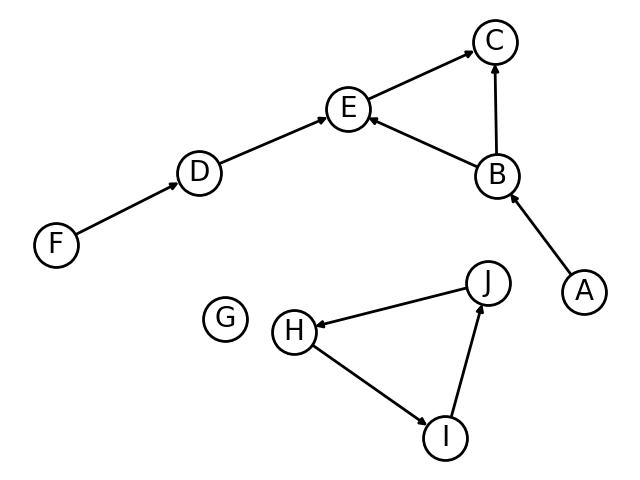
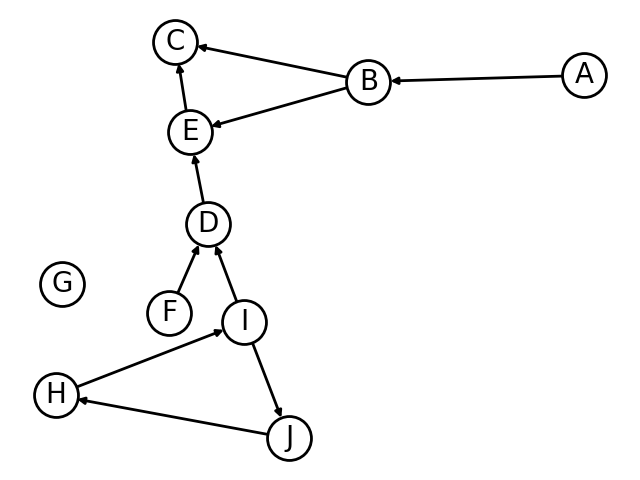
update test case

diff --git a/sparsesort/SparseSort.java b/sparsesort/SparseSort.java
@@ -63,7 +63,7 @@ class SparseSort {
         children.put("F", Arrays.asList("D"));
         children.put("G", Arrays.asList());
         children.put("H", Arrays.asList("I"));
-        children.put("I", Arrays.asList("J"));
+        children.put("I", Arrays.asList("J", "D"));
         children.put("J", Arrays.asList("H"));
     }
 

diff --git a/sparsesort/viz.py b/sparsesort/viz.py
@@ -25,7 +25,8 @@ G.add_edges_from([
     ["F", "D"],
     ["H", "I"],
     ["I", "J"],
-    ["J", "H"],
+    ["I", "D"],
+    ["J", "H"]
 ])
 options = {
     "font_size": 20,
